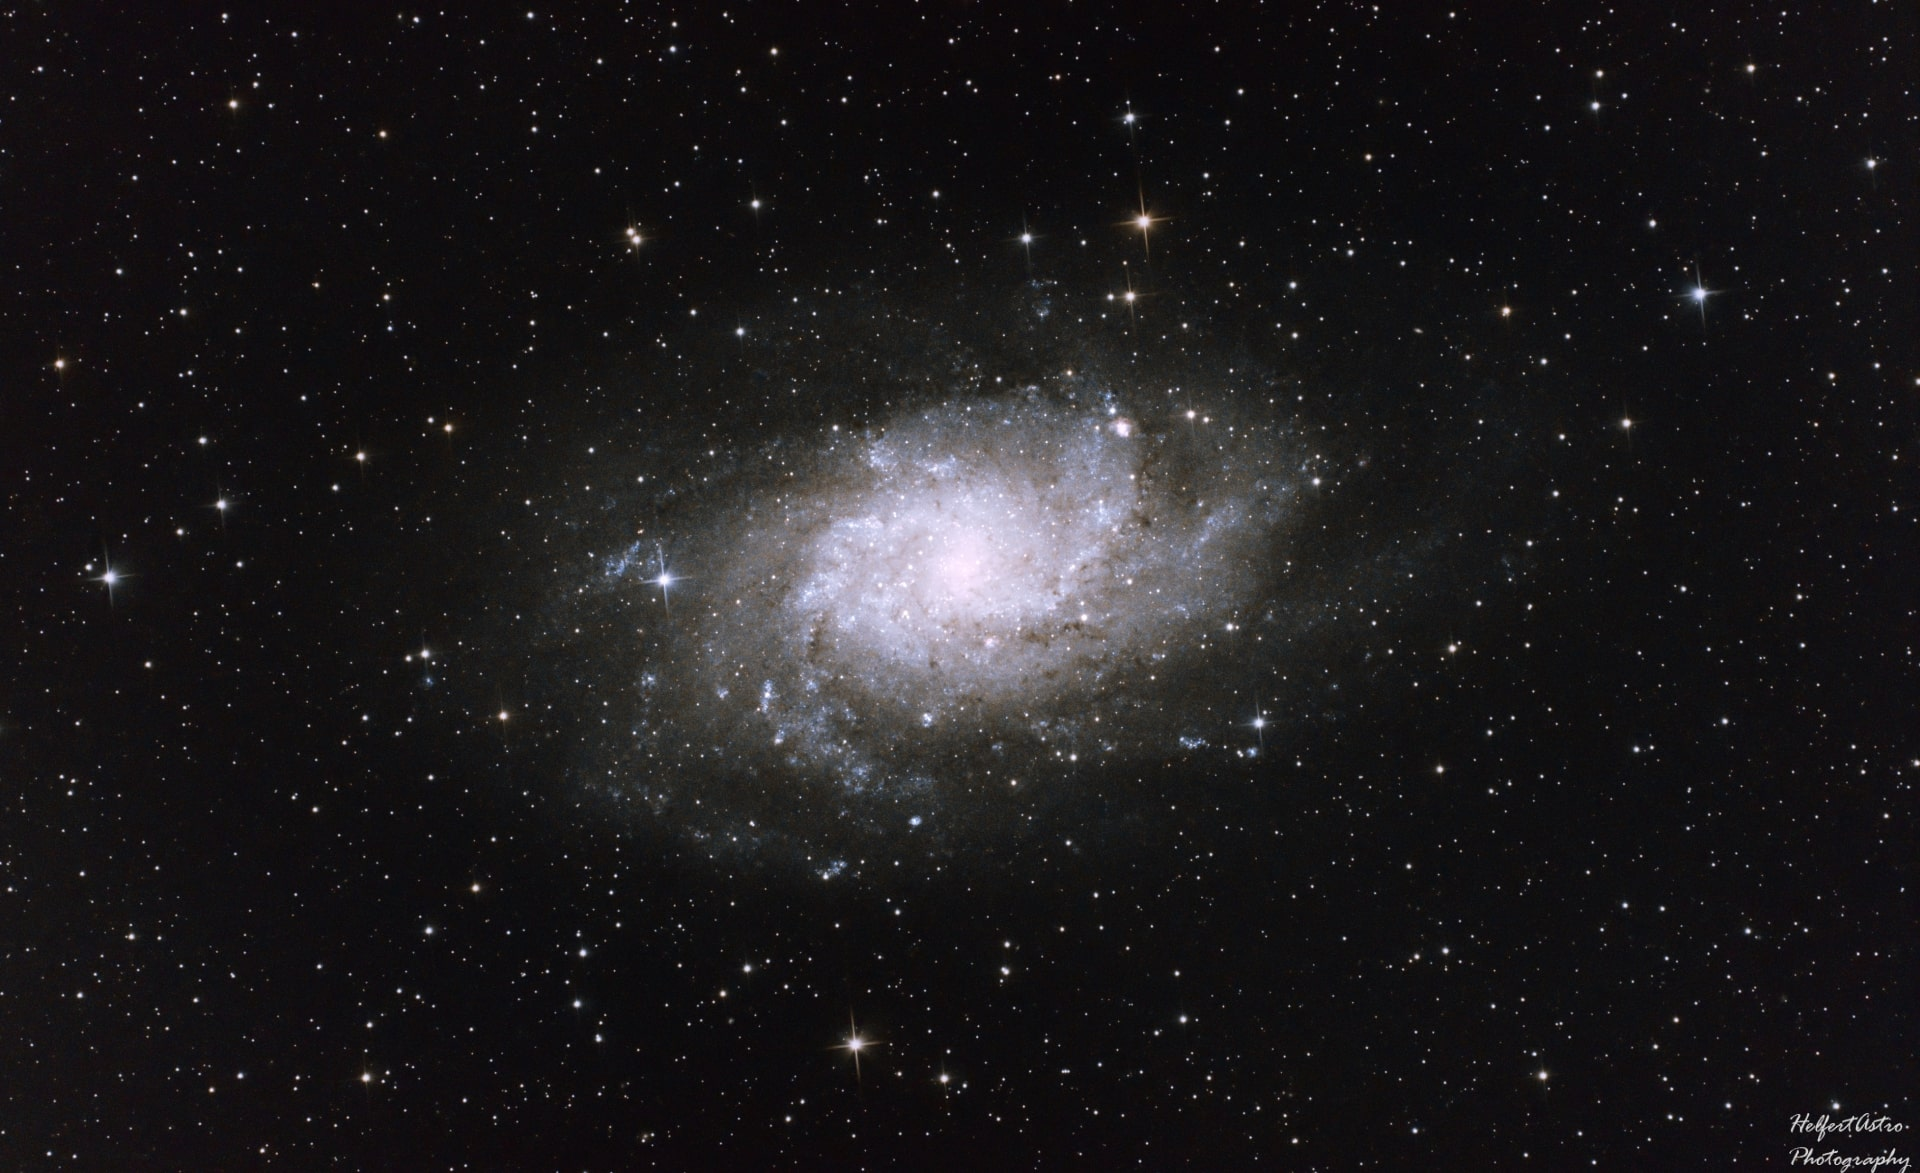
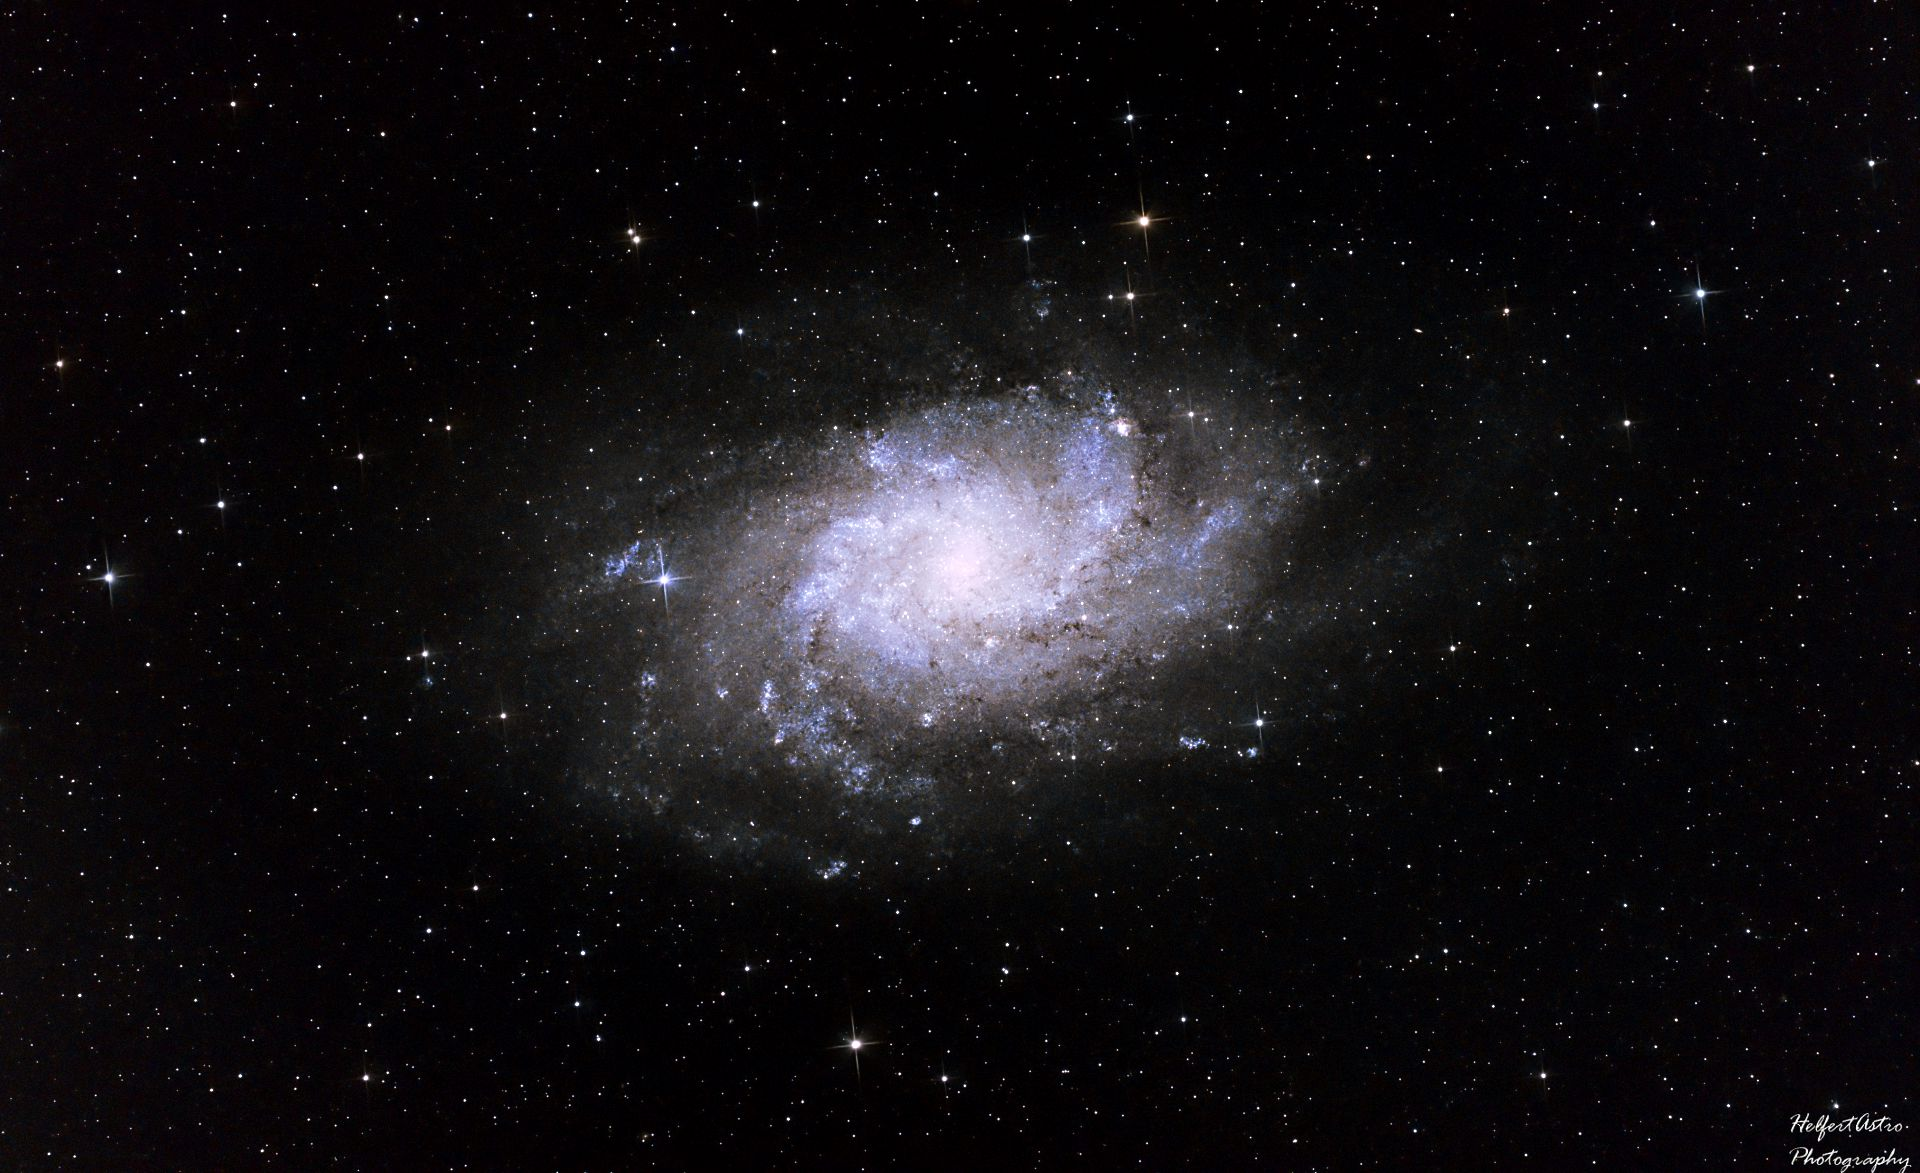
cleaned up images, fixed whirlpool

diff --git a/TargetPages/WhirlpoolGalaxy.html b/TargetPages/WhirlpoolGalaxy.html
@@ -52,7 +52,7 @@
         <h3 class="targetTitle">The Whirlpool Galaxy</h3>
         <div class="image-containerz">
             <picture>
-                <img onclick="window.location.href='../pictures/Whirlpool_Galaxy.png'" src="/pictures/Whirlpool_Galaxy.png"
+                <img onclick="window.location.href='../pictures/Whirlpool_Galaxy.jpg'" src="/pictures/Whirlpool_Galaxy.jpg"
                     alt="whirlpool galaxy" style="width: auto" class="targetPicture" />
             </picture>
         </div>

diff --git a/TargetPages/Lunar.html b/TargetPages/Lunar.html
@@ -52,7 +52,7 @@
         <h3 class="targetTitle">The Moon</h3>
         <div class="image-containerz">
             <picture>
-                <img onclick="window.location.href='../pictures/fullMoonSHARPless.png'" src="/pictures/fullMoonSHARPless.png"
+                <img onclick="window.location.href='../pictures/fullMoon.png'" src="/pictures/fullMoon.png"
                     alt="Full Moon" style="width: auto" class="targetPicture" />
             </picture>
         </div>
